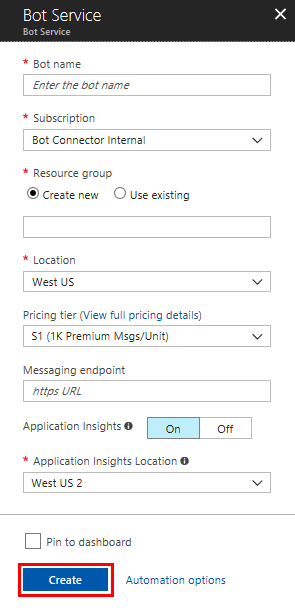
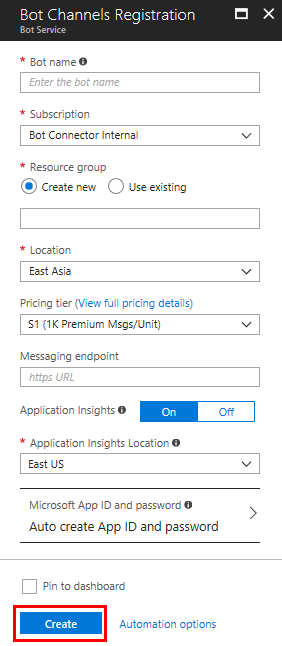
Update create bot process to include ability to enter a MS App ID and password manually. (#440)

diff --git a/articles/bot-service-quickstart.md b/articles/bot-service-quickstart.md
@@ -38,6 +38,7 @@ Log in to the [Azure portal](http://portal.azure.com).
  | **App service plan/Location** | Your app service plan  | Select an [app service plan](https://azure.microsoft.com/en-us/pricing/details/app-service/plans/) location. Your location choice can be any location listed, though it's often best to choose a location closest to your customer. (Not available for Functions Bot.) |
  | **Azure Storage** | Your Azure storage account | You can create a new data storage account or use an existing one. By default, the bot will use [Table Storage](/azure/storage/common/storage-introduction#table-storage). |
  | **Application Insights** | On | Decide if you want to turn [Application Insights](/bot-framework/bot-service-manage-analytics) **On** or **Off**. If you select **On**, you must also specify a regional location. Your location choice can be any location listed, though it's often best to choose a location closest to your customer. |
+ | **Microsoft App ID and password** | Auto create App ID and password | Use this option if you need to manually enter a Microsoft App ID and password. Otherwise, a new Microsoft App ID and password will be created for you in the bot creation process. |
 
  > [!NOTE]
  > 

diff --git a/articles/bot-service-quickstart-registration.md b/articles/bot-service-quickstart-registration.md
@@ -41,7 +41,8 @@ To create a **Bot Channels Registration**, do the following:
  | **Pricing tier** | F0 | Select a pricing tier. You may update the pricing tier at any time. For more information, see [Bot Service pricing](https://azure.microsoft.com/en-us/pricing/details/bot-service/). |
  | **Messaging endpoint** | URL | Enter the URL for your bot's messaging endpoint. |
  | **Application Insights** | On | Decide if you want to turn [Application Insights](bot-service-manage-analytics.md) **On** or **Off**. If you select **On**, you must also specify a regional location. |
-
+ | **Microsoft App ID and password** | Auto create App ID and password | Use this option if you need to manually enter a Microsoft App ID and password. Otherwise, a new Microsoft App ID and password will be created for you in the bot creation process. |
+ 
 4. Click **Create** to create the service and register your bot's messaging end point.
 
 Confirm that the registration has been created by checking the **Notifications**. The notifications will change from **Deployment in progress...** to **Deployment succeeded**. Click **Go to resource** button to open the bot's resources blade. 
